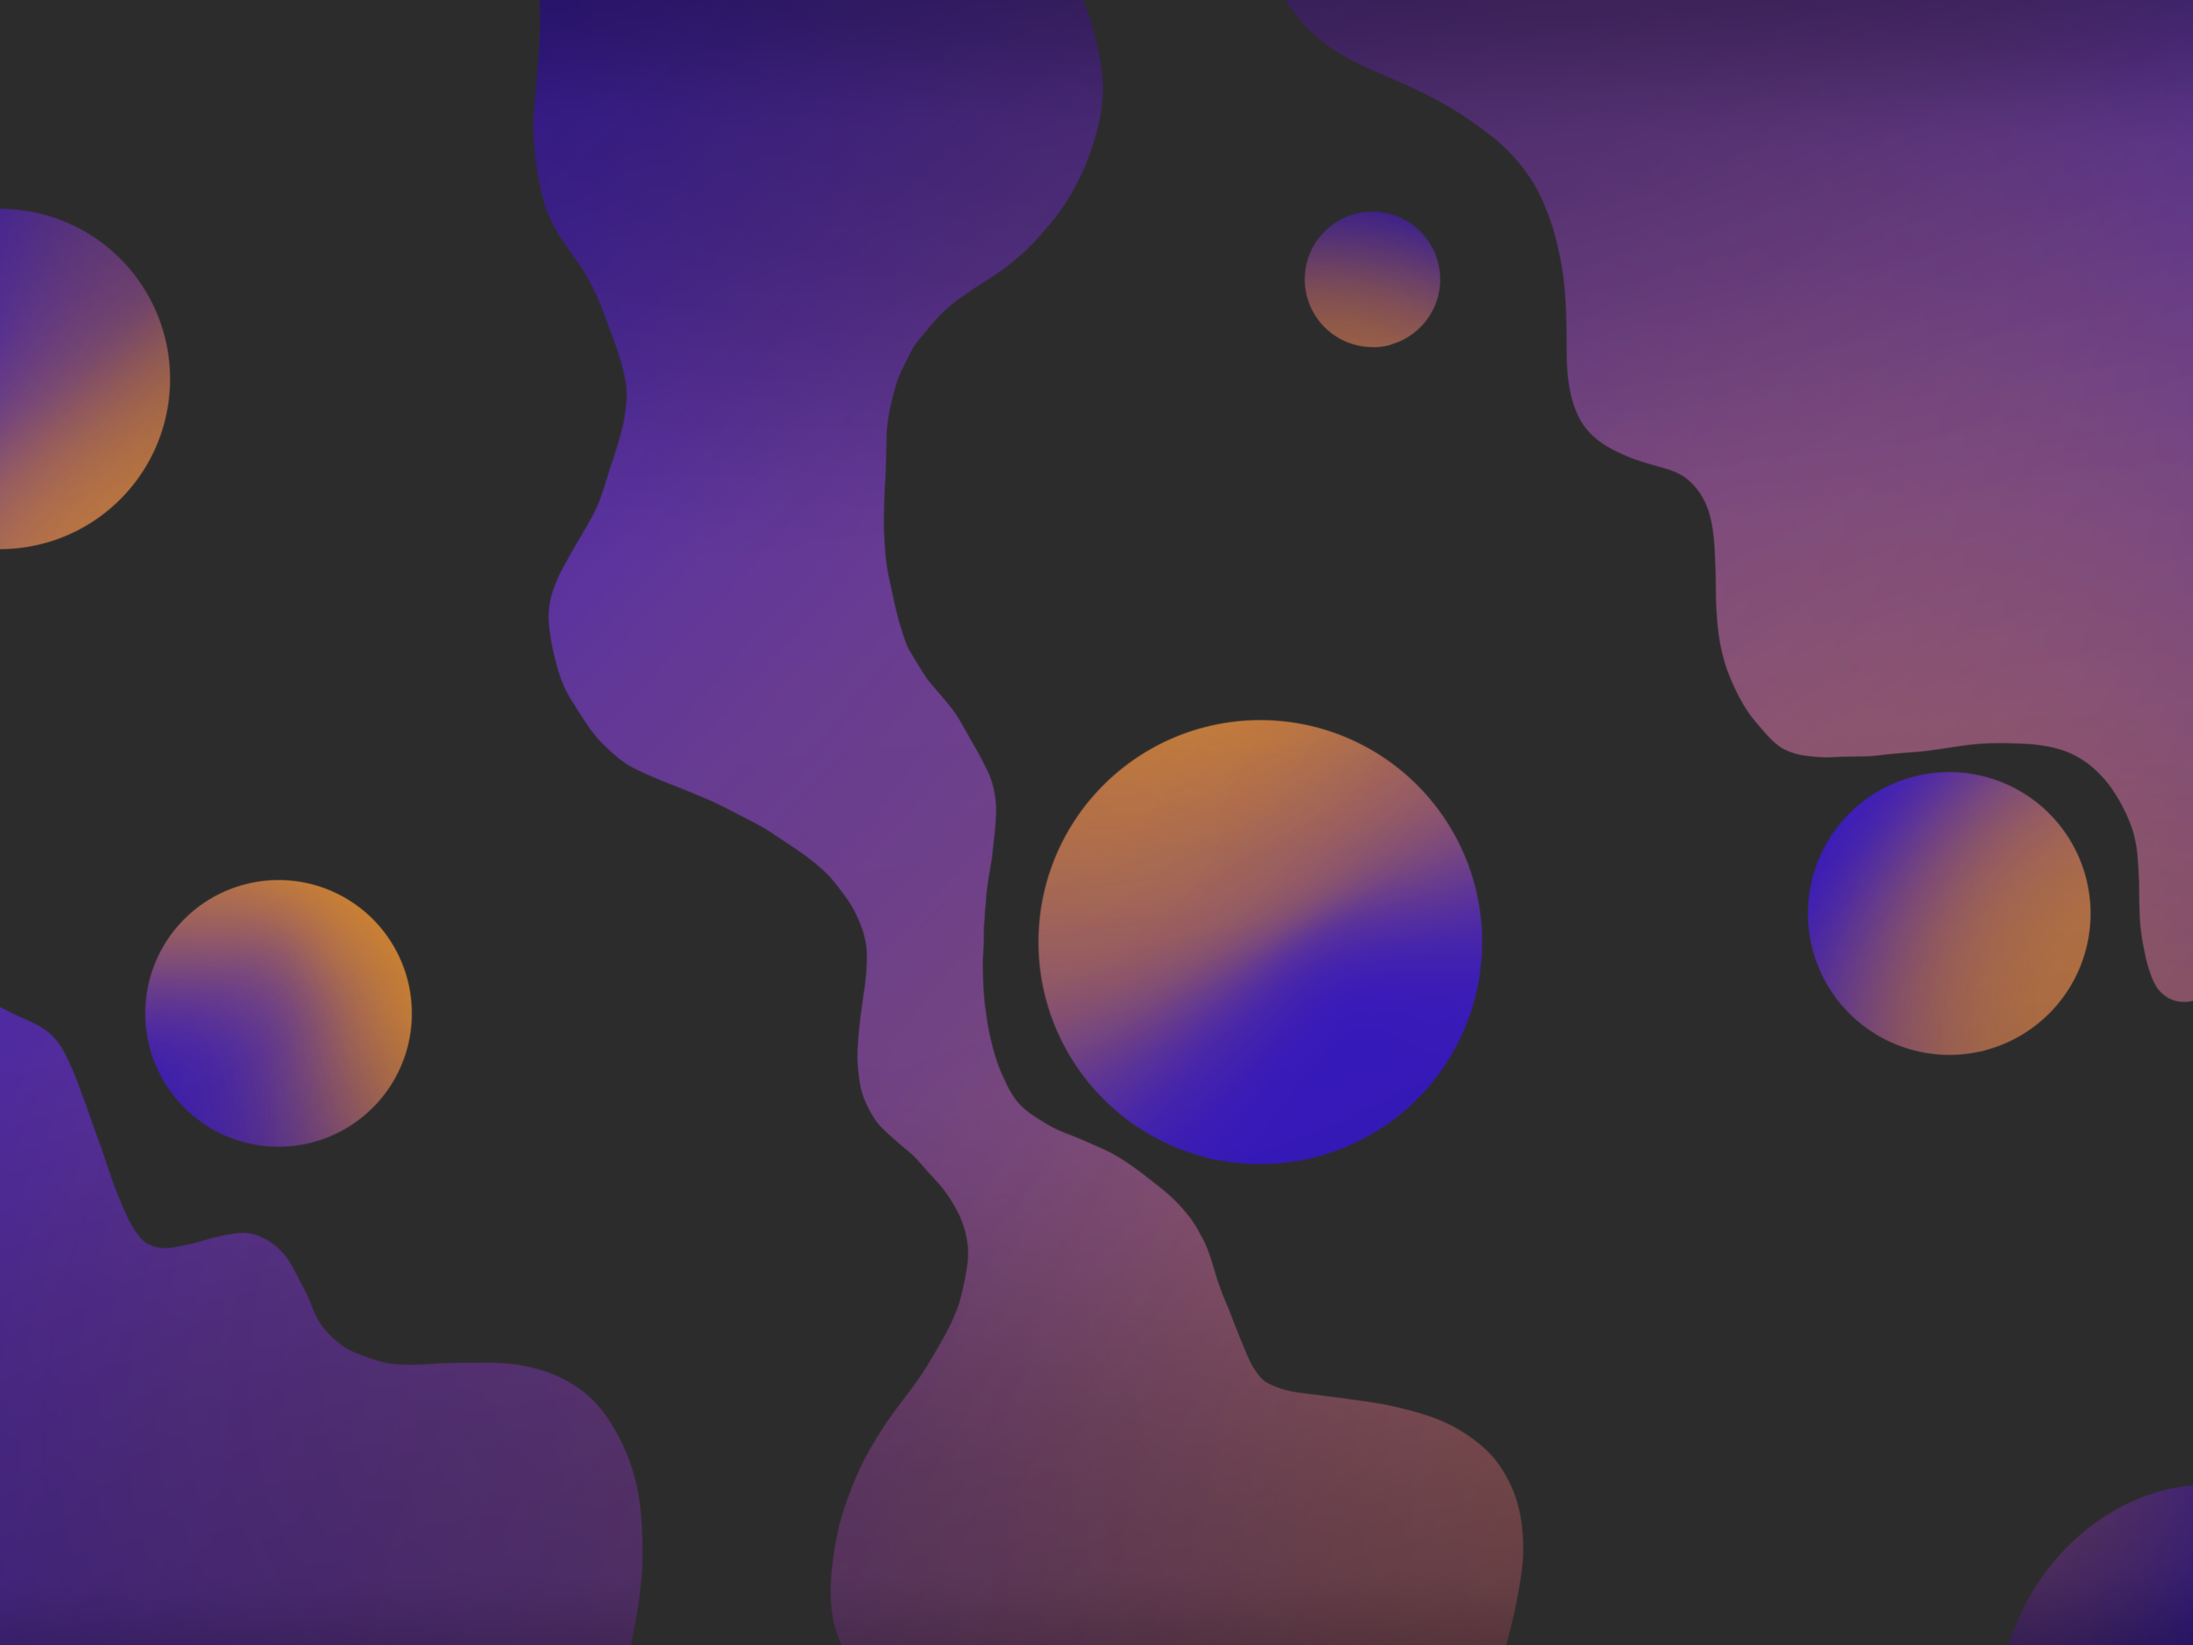
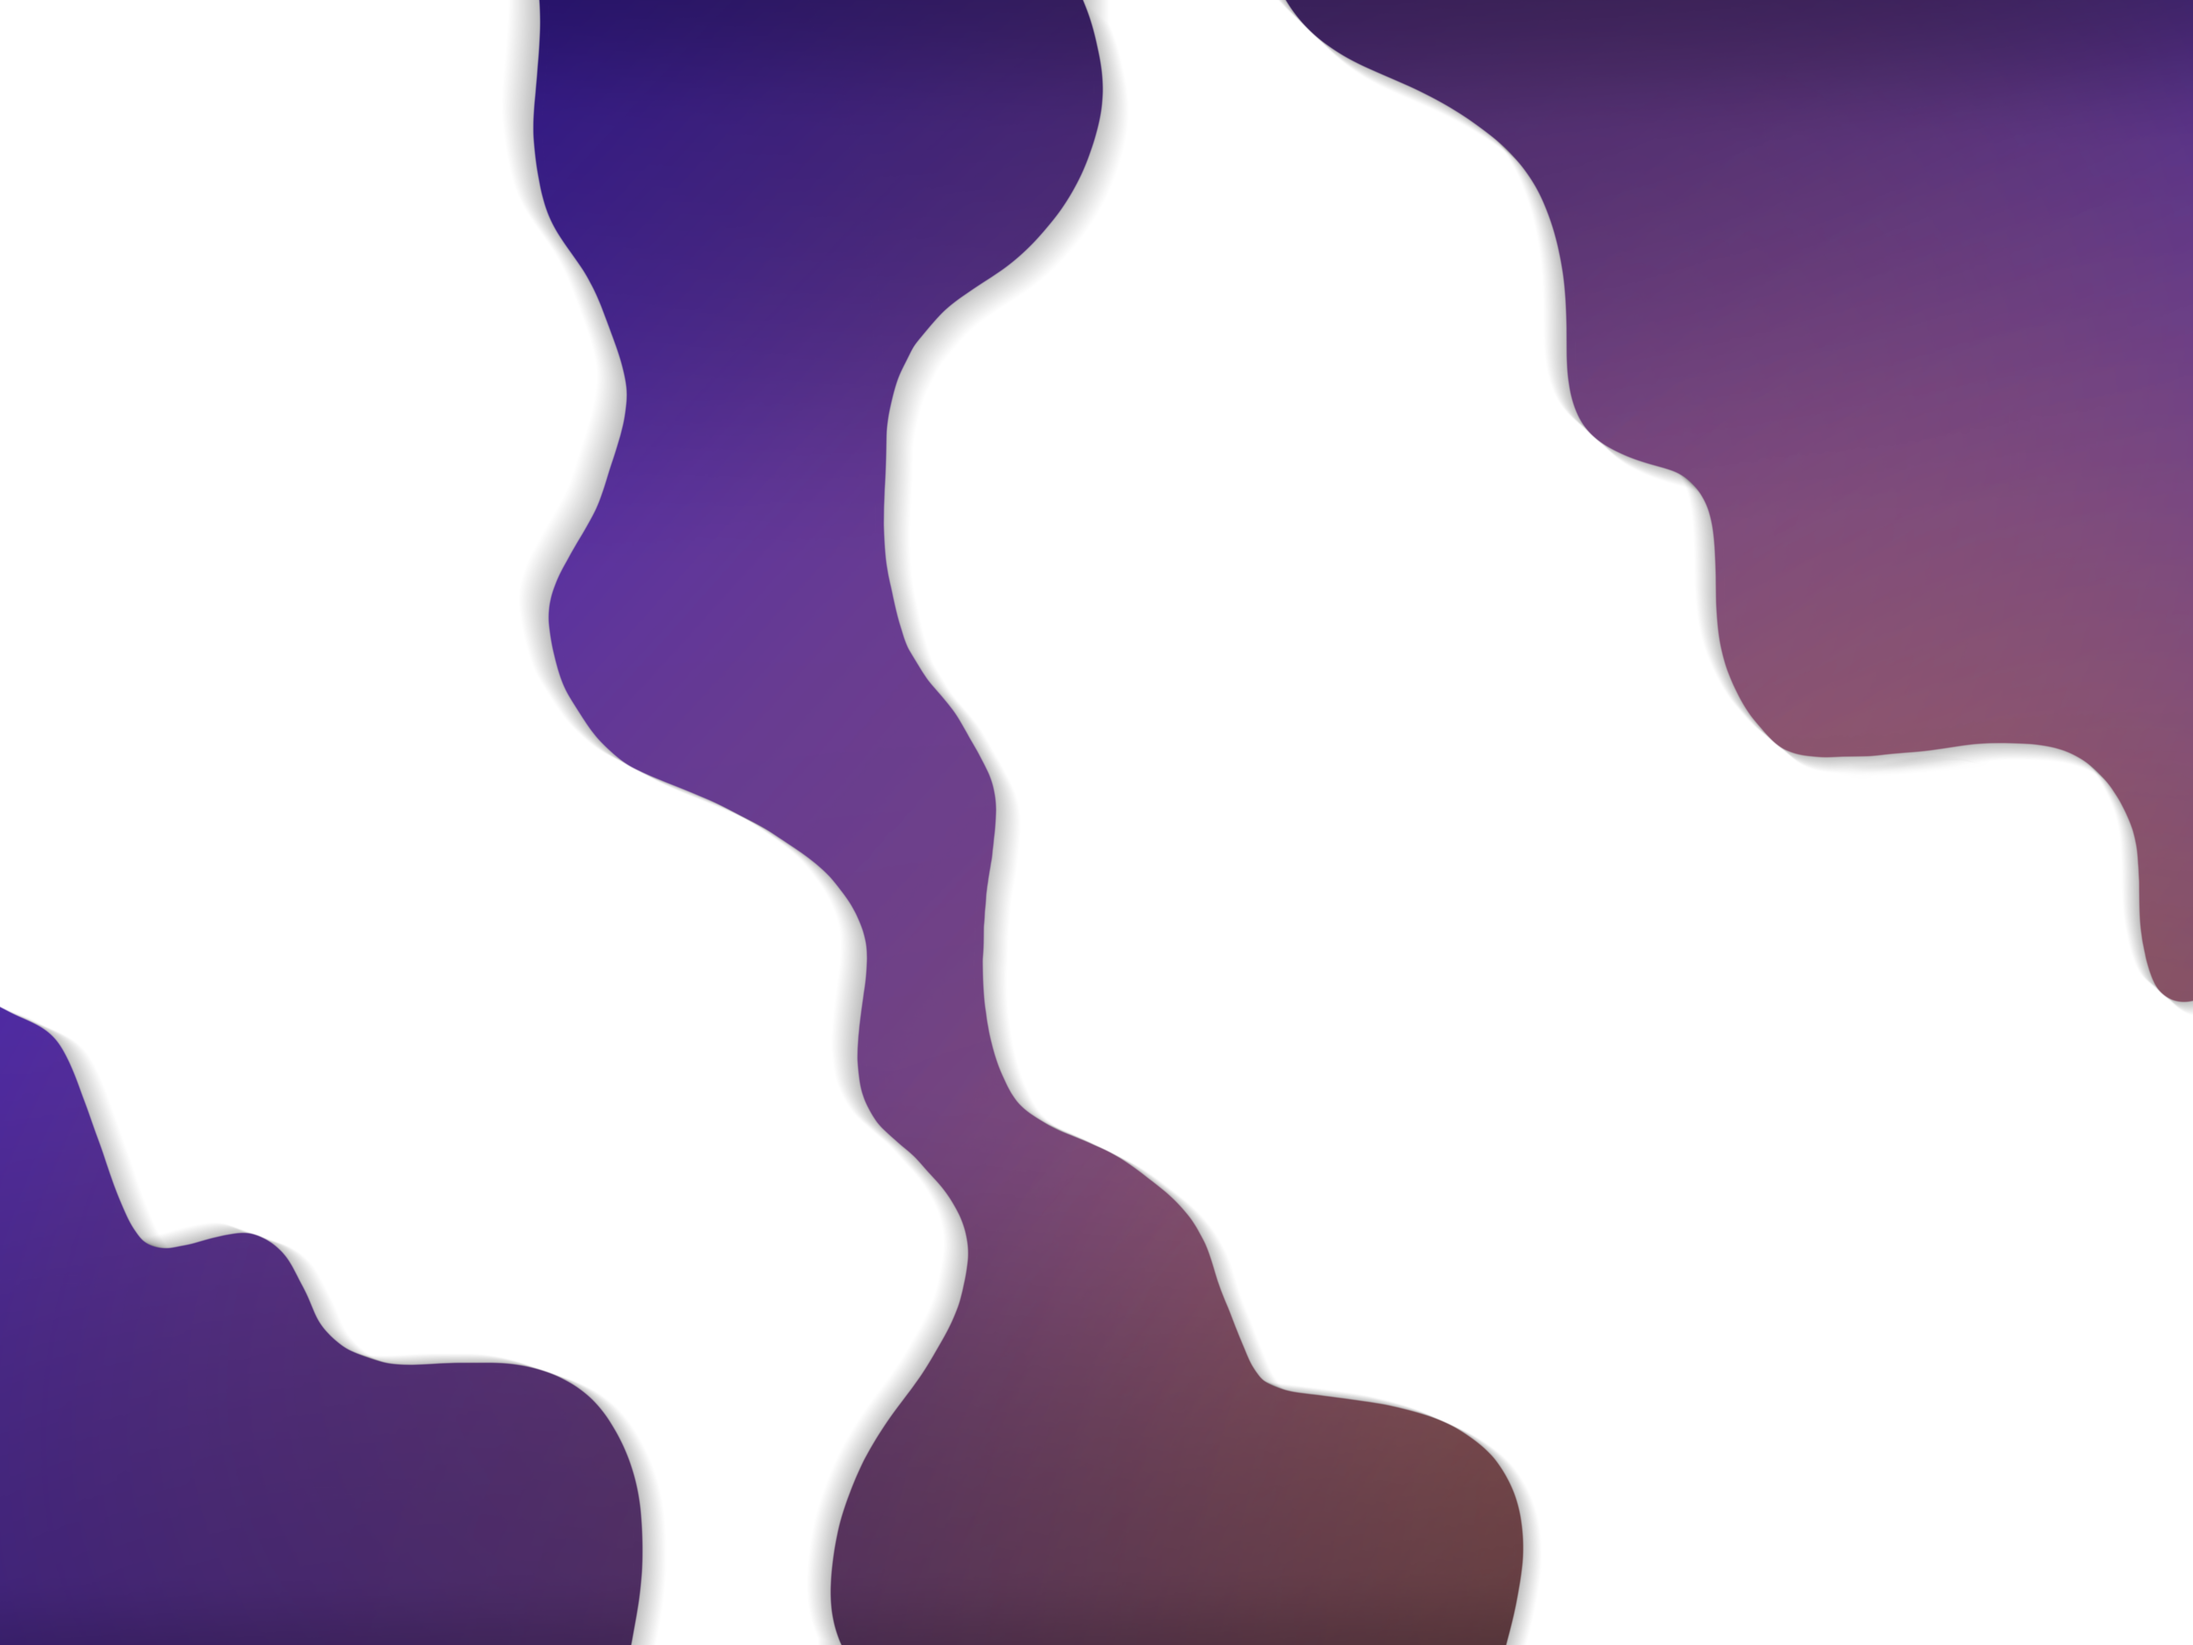
Added animation for login/register page background

diff --git a/WareDrop_Frontend/waredrop_frontend/src/Styles/LogRegForm.css b/WareDrop_Frontend/waredrop_frontend/src/Styles/LogRegForm.css
@@ -101,7 +101,8 @@
 
 .overlay {
     /*background: linear-gradient( 90deg, var(--secondary-color), var(--main-color));*/
-    background: url("../../public/images/LogReg_bg.png");
+    background: var(--bright-gray);
+    background-image: url("../../public/images/LogReg_bg.png");
     background-size: cover;
     color: #FFFFFF;
     position: relative;
@@ -110,12 +111,37 @@
     width: 200%;
     transform: translateX(0);
     transition: transform 0.6s ease-in-out;
+    animation: left 1s ease-in-out both, holding 6s ease-in-out alternate infinite;
 }
 
 .container.right-panel-active .overlay {
     transform: translateX(50%);
+    animation: right 1s ease-in-out both, holding 6s ease-in-out alternate infinite;
 }
-
+@keyframes holding {
+    0%{
+        background-size: 100% 110%;
+    }
+    100%{
+        background-size: 100% 115%;
+    }
+}
+@keyframes left {
+    0%{
+        background-position: 0 -1.5rem;
+    }
+    100%{
+        background-position: 0 0;
+    }
+}
+@keyframes right {
+    0%{
+        background-position: 0 0;
+    }
+    100%{
+        background-position: 0 -1.5rem;
+    }
+}
 .overlay-panel {
     position: absolute;
     display: flex;
@@ -145,4 +171,74 @@
 
 .container.right-panel-active .overlay-right {
     transform: translateX(20%);
+}
+.orb-animate{
+    position: absolute;
+    width: 100%;
+    height: 100%;
+    background-size: cover;
+    pointer-events: none;
+    top: -2rem;
+}
+.orb-animate-1{
+    background-image: url("../../public/images/Orb1.png");
+    animation: left 1s 200ms ease-in-out both, orb1 4s ease-in-out infinite alternate;
+}
+.orb-animate-2{
+    background-image: url("../../public/images/Orb2.png");
+    animation: left 1s 200ms ease-in-out both, orb2 6s ease-in-out infinite alternate;
+}
+.orb-animate-3{
+    background-image: url("../../public/images/Orb3.png");
+    animation: left 1s 200ms ease-in-out both, orb3 3s ease-in-out infinite alternate;
+}
+.orb-animate-4{
+    background-image: url("../../public/images/Orb4.png");
+    animation: left 1s 200ms ease-in-out both, orb4 8s ease-in-out infinite alternate;
+}
+
+.container.right-panel-active .orb-animate-1{
+    animation: right 1s 200ms ease-in-out both, orb1 4s ease-in-out infinite alternate;
+}
+.container.right-panel-active .orb-animate-2{
+    animation: right 1s 200ms ease-in-out both, orb2 6s ease-in-out infinite alternate;
+}
+.container.right-panel-active .orb-animate-3{
+    animation: right 1s 200ms ease-in-out both, orb3 3s ease-in-out infinite alternate;
+}
+.container.right-panel-active .orb-animate-4{
+    animation: right 1s 200ms ease-in-out both, orb4 8s ease-in-out infinite alternate;
+}
+
+@keyframes orb1 {
+    0% {
+        transform: translateY(0);
+    }
+    100% {
+        transform: translateY(-3%);
+    }
+}
+@keyframes orb2 {
+    0% {
+        transform: translateY(0);
+    }
+    100% {
+        transform: translateY(-5%);
+    }
+}
+@keyframes orb3 {
+    0% {
+        transform: translateY(3%);
+    }
+    100% {
+        transform: translateY(-2%);
+    }
+}
+@keyframes orb4 {
+    0% {
+        transform: translateY(0);
+    }
+    100% {
+        transform: translateY(-15%);
+    }
 }

diff --git a/WareDrop_Frontend/waredrop_frontend/src/Displays/HomeDisplay.tsx b/WareDrop_Frontend/waredrop_frontend/src/Displays/HomeDisplay.tsx
@@ -16,6 +16,10 @@ function HomeDisplay() {
                 </div>
                 <div className="overlay-container">
                     <div className="overlay">
+                        <div className="orb-animate orb-animate-1"/>
+                        <div className="orb-animate orb-animate-2"/>
+                        <div className="orb-animate orb-animate-3"/>
+                        <div className="orb-animate orb-animate-4"/>
                         <div className="overlay-panel overlay-left">
                             <h1>Hello there!</h1>
                             <p>Already have an account? Login here!</p>
